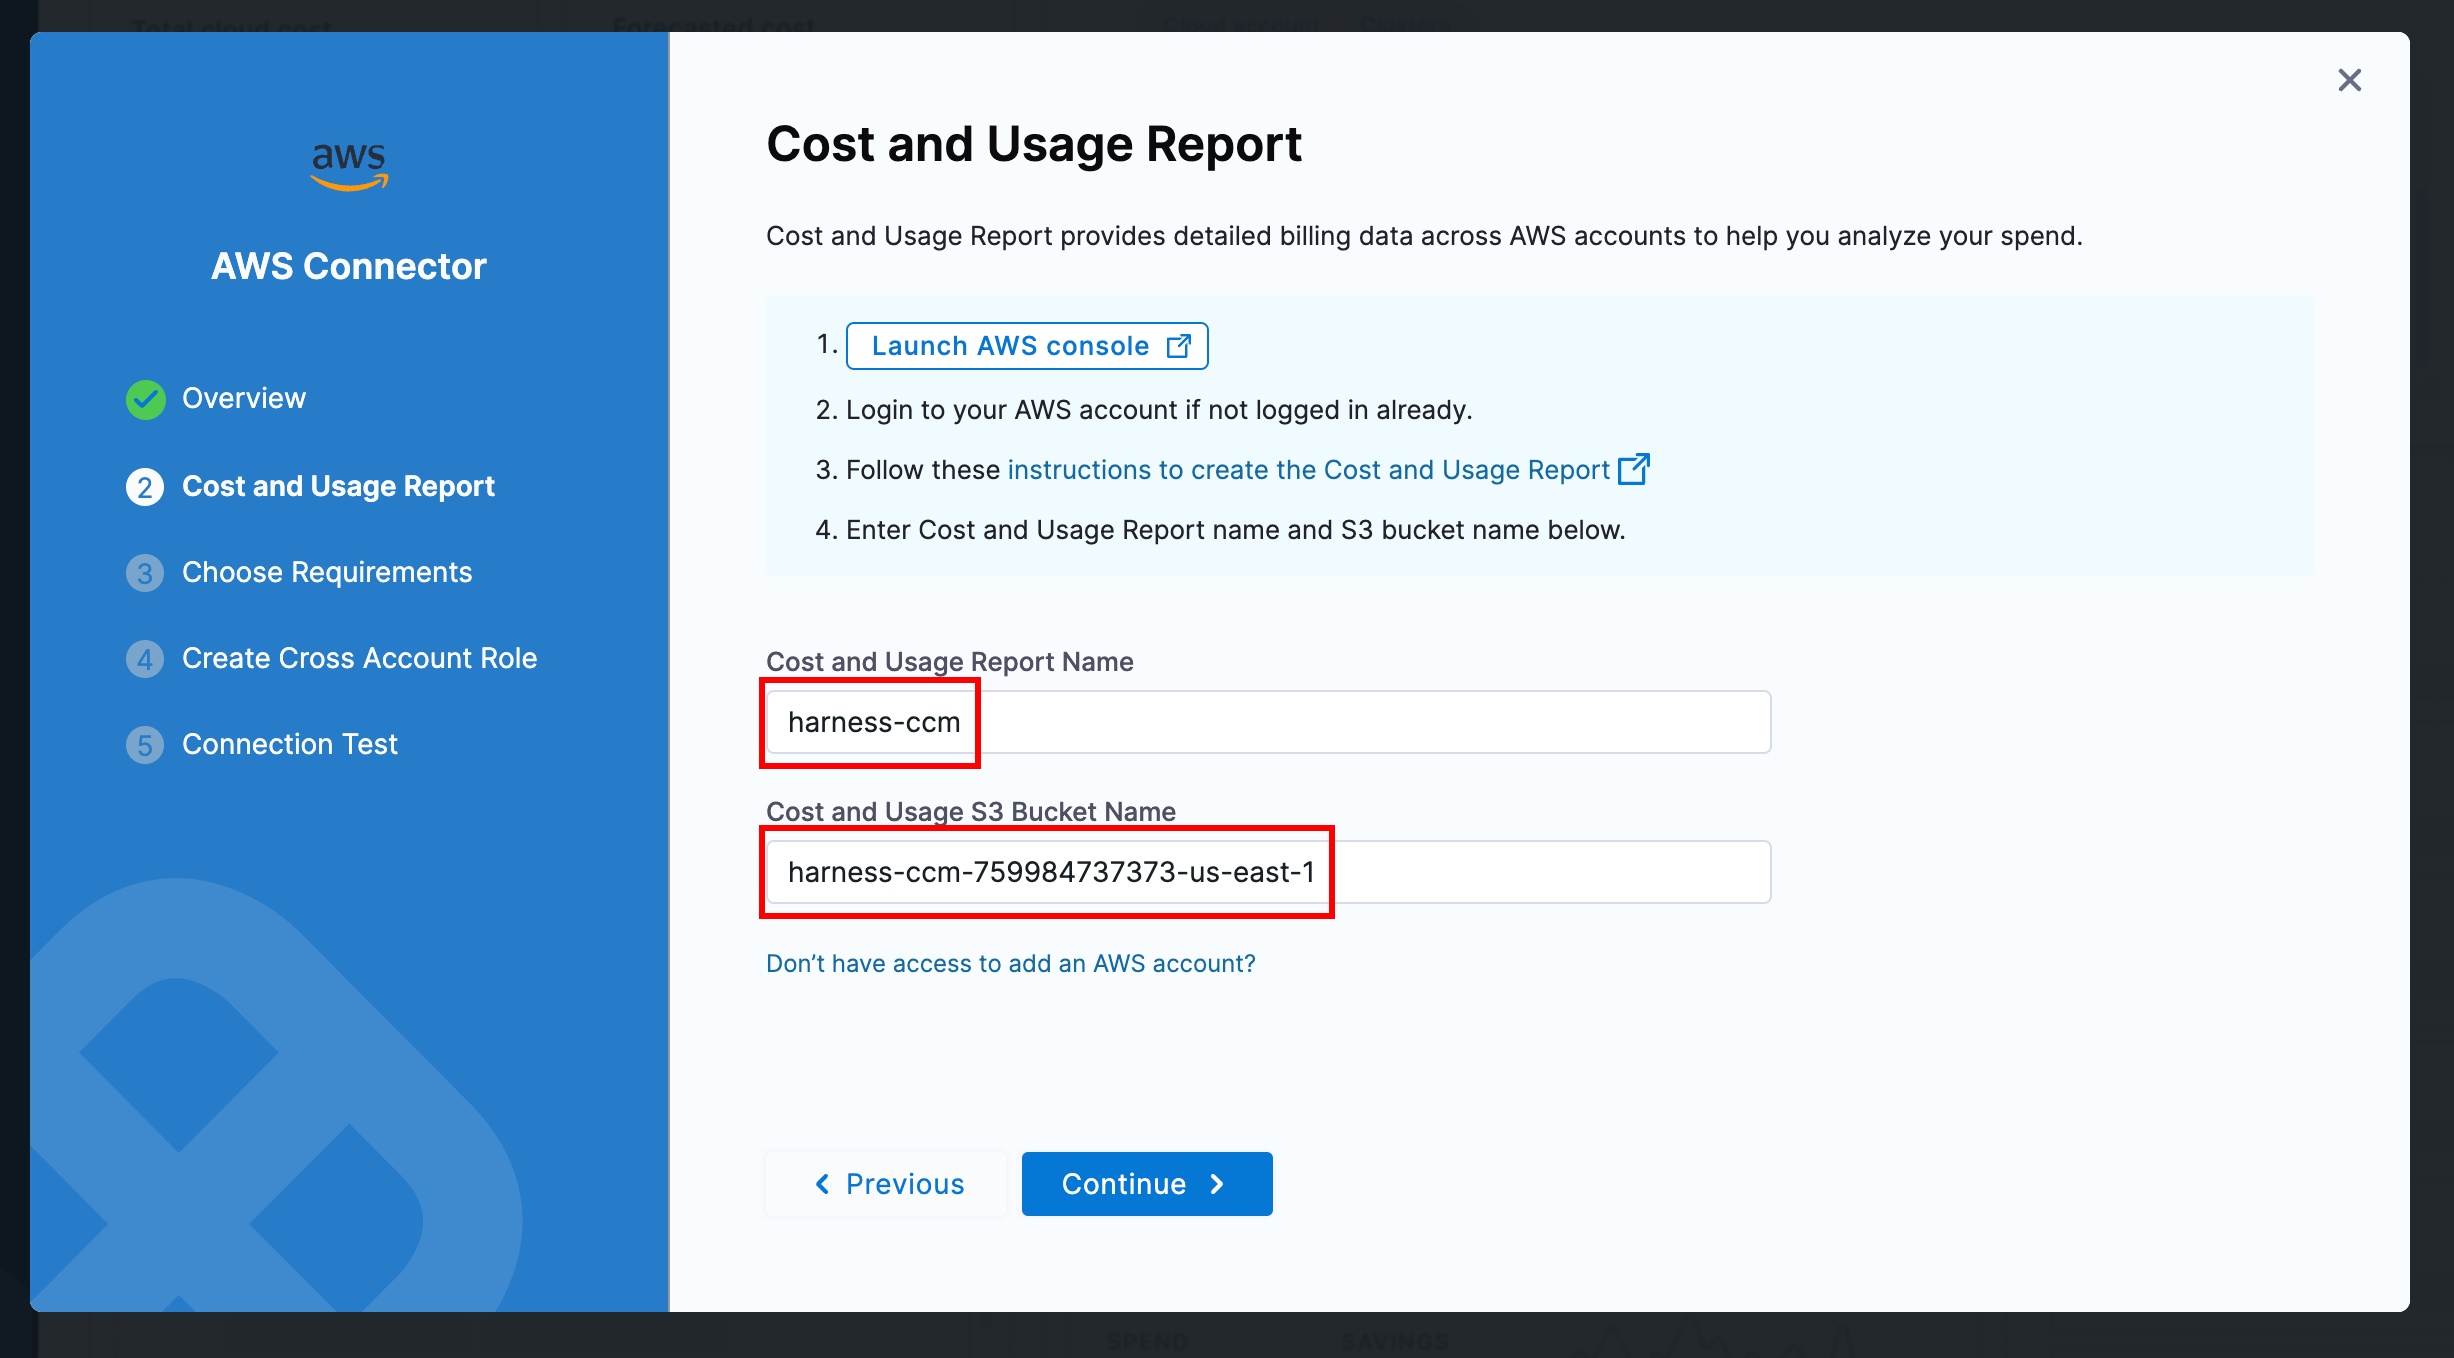
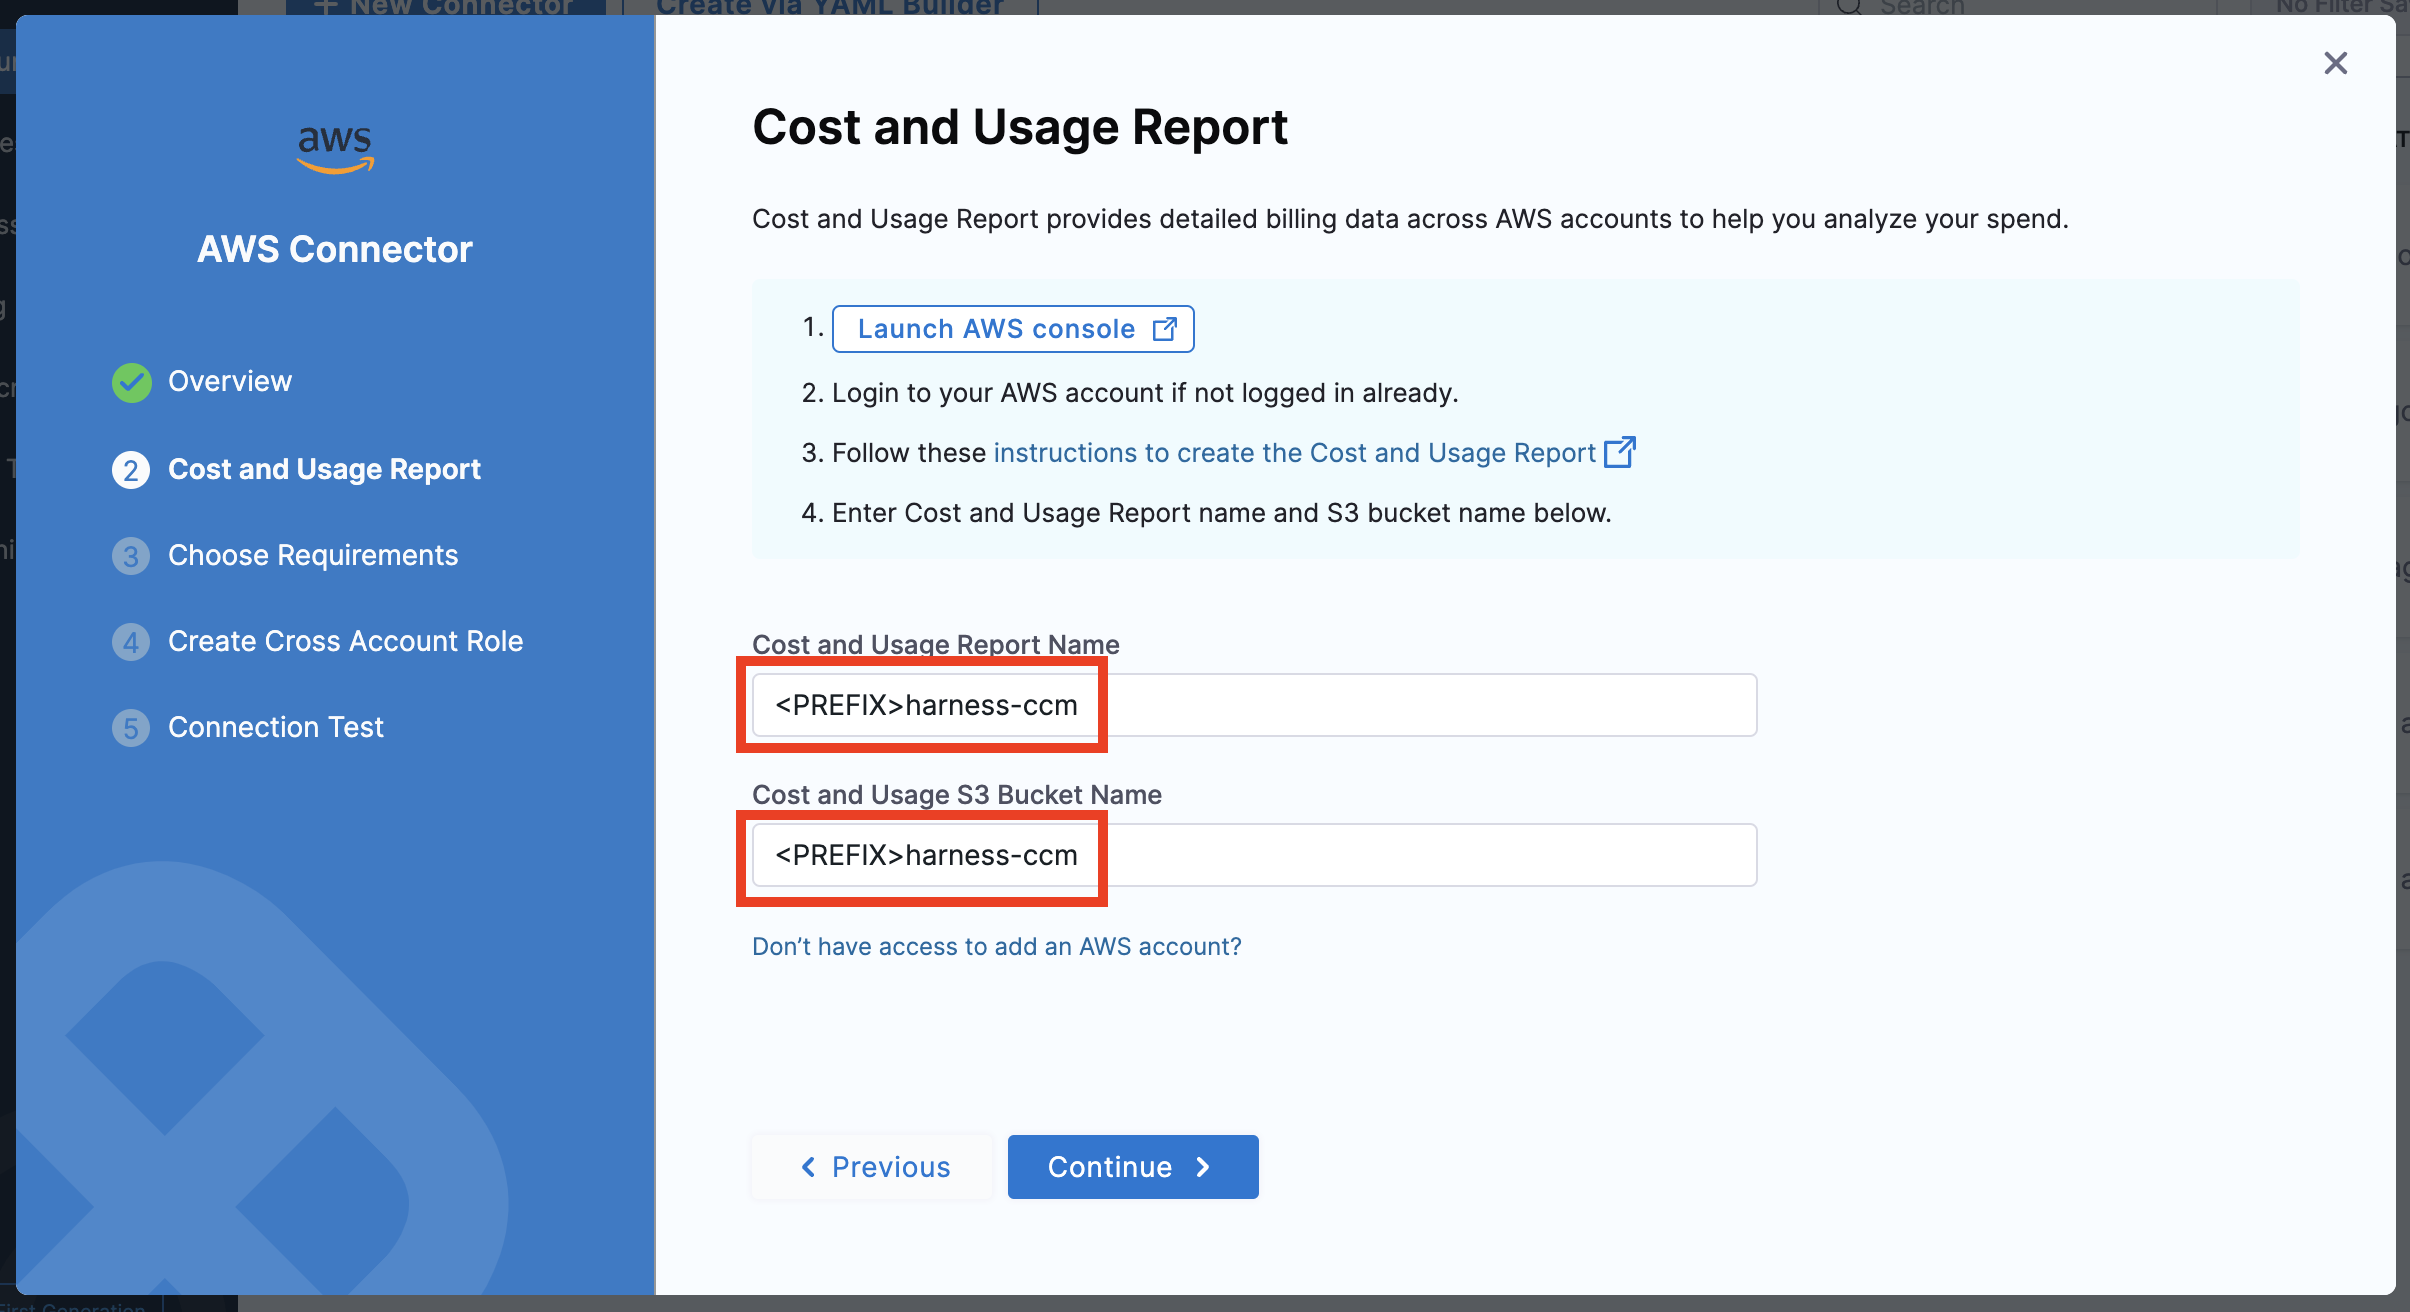
update documentation

diff --git a/README.md b/README.md
@@ -23,7 +23,7 @@ Name the connector, and enter your AWS account ID.
 
 ![ccm-aws](./images/ccm_tf_1.png)
 
-Enter the name of the usage report and s3 bucket. The defaults in this terraform example are `harness-ccm` and `harness-ccm`.
+Enter the name of the usage report and s3 bucket. The defaults in this terraform example are `harness-ccm` and `harness-ccm`. If you are using the prefix variable, add the prefix in front of the default values. Do not create these resources, they will be created by Terraform.
 
 ![ccm-aws](./images/ccm_tf_2.png)
 
@@ -35,7 +35,7 @@ Copy the `External ID` from the next page, you will need it as an input to the t
 
 ![ccm-aws](./images/ccm_tf_4.png)
 
-Copy the code locally, [install terraform](https://learn.hashicorp.com/tutorials/terraform/install-cli), set up your AWS credentils, and optionally enable or disable any of the CCM features by editing the `variables.tf` file.
+Copy the code locally, [install terraform](https://learn.hashicorp.com/tutorials/terraform/install-cli), set up your AWS credentils, and optionally enable or disable any of the CCM features by editing the `variables.tf` file. If you are using a prefix, make sure the value matches the prefix you specified previously.
 
 ![ccm-aws](./images/ccm_tf_vars.png)
 
